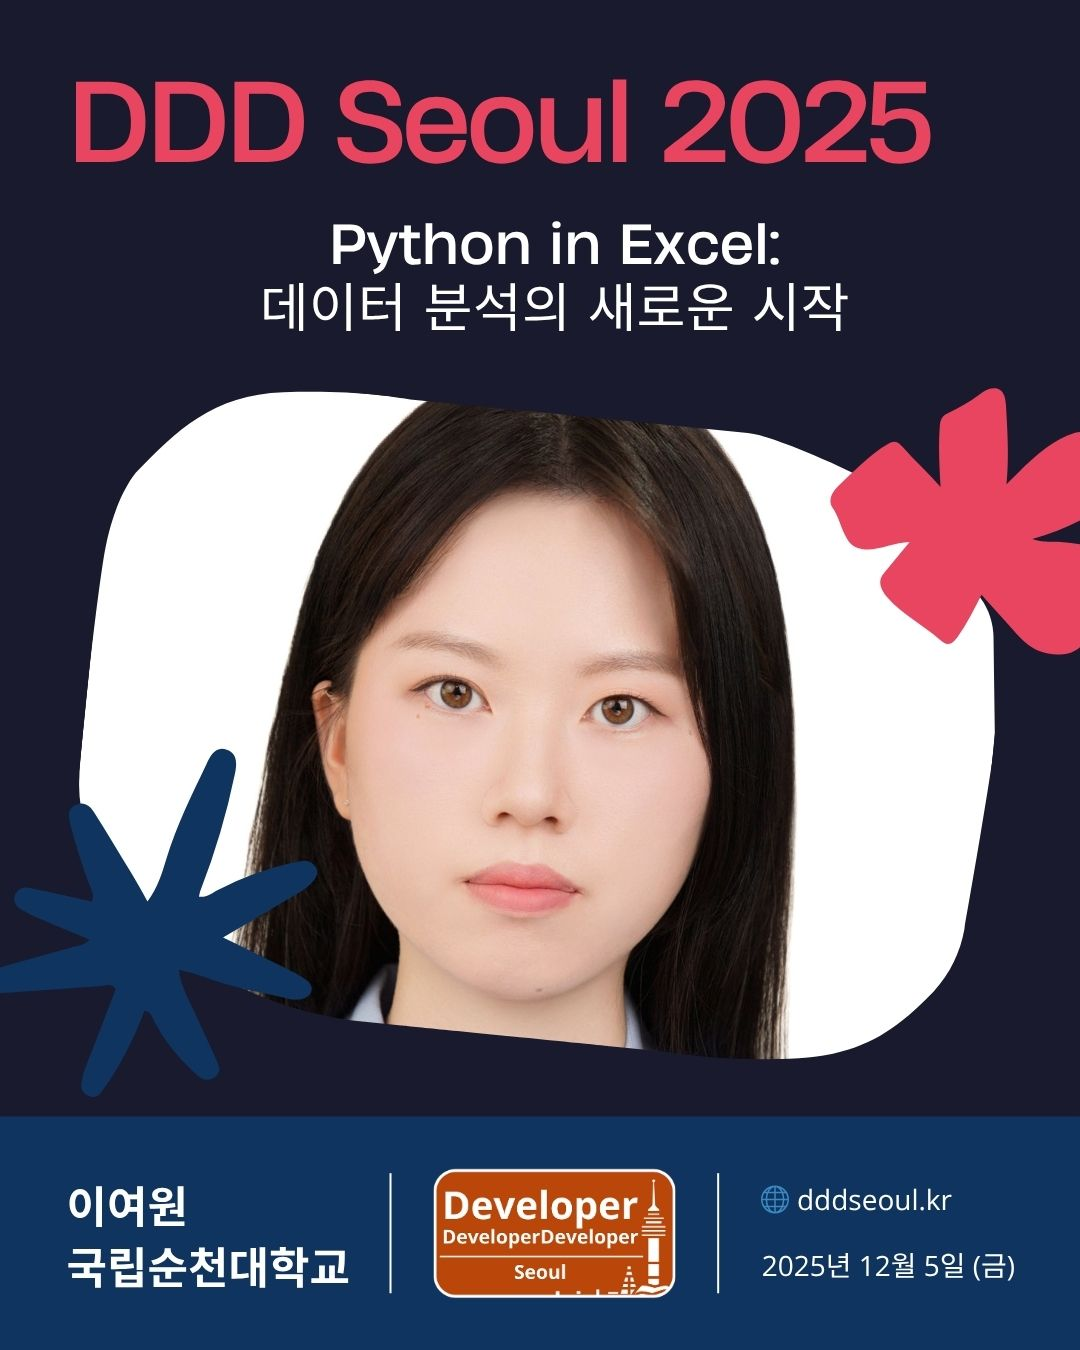
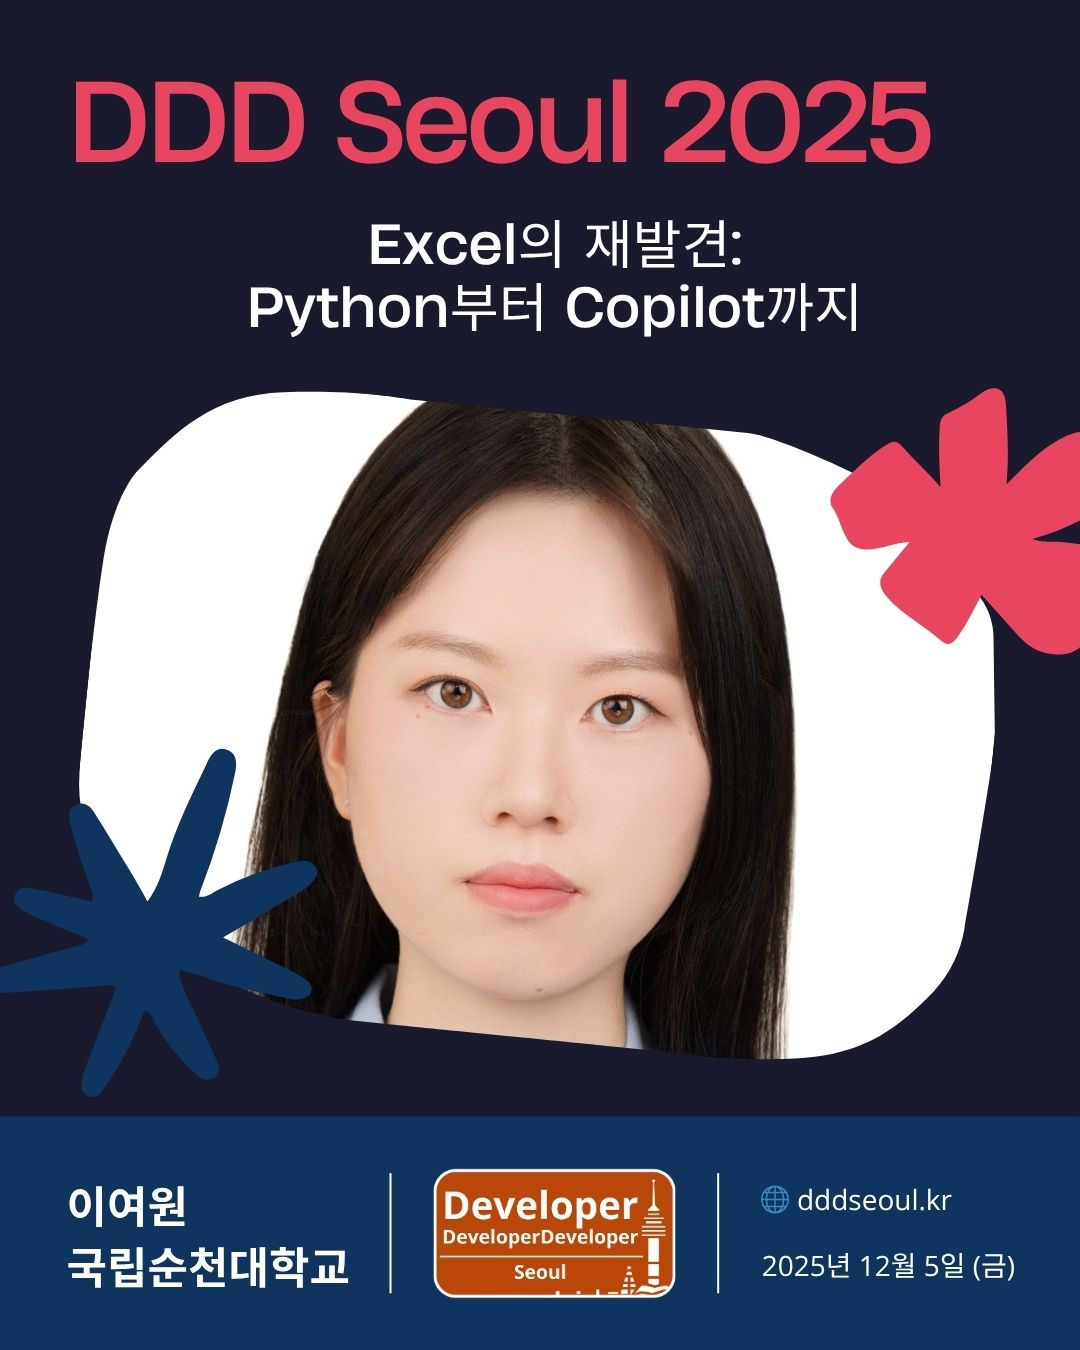
발표자 이여원 업데이트

Changed region(s): [[0.2139, 0.1556, 0.7944, 0.2489]]

diff --git a/src/DDDSeoul/input/speakers/yeowonlee.md b/src/DDDSeoul/input/speakers/yeowonlee.md
@@ -10,15 +10,15 @@
 
 ## 🔎 세션 정보
 
-- **세션명**: Python in Excel: 데이터 분석의 새로운 시작
+- **세션명**: Excel의 재발견: Python부터 Copilot까지 한 번에 보기
 - **세션종류**: 브레이크아웃 세션
 - **세션설명**:
 
-  Python in Excel 기능을 활용하여 데이터 분석과 자동화를 보다 효율적으로 수행하는 방법을 소개합니다.
+  Excel은 최근 기능 업데이트를 통해 기존 활용 방식을 넘어서는 새로운 흐름을 보여주고 있습니다. 이번 세션은 Python in Excel과 Copilot 함수라는 두 가지 축을 중심으로, 최근 Excel이 어떤 방향으로 진화하고 있는지를 흐름 위주로 살펴보는 시간입니다.
 
-  전통적으로 Excel은 접근성이 뛰어나지만 복잡한 데이터 처리에는 한계가 있었습니다. 그러나 Python이 통합되면서 Excel 내에서 직접 데이터 분석, 시각화, 머신러닝 등의 작업을 수행할 수 있게 되었습니다.
+  이번 업데이트들은 단순한 기능 추가라기보다, Excel이 앞으로 어떤 역할을 해나갈지에 대한 방향 전환에 가깝습니다. 
 
-  본 세션에서는 Python in Excel의 기본 개념과 주요 기능을 살펴보고 실제 예시를 통해 엑셀과 파이썬의 시너지가 만들어내는 새로운 데이터 분석 환경을 이해하는 시간을 가집니다!
+  익숙하지만 새로워진 Excel의 변화들을 함께 짚어보며 앞으로의 사용 방식에 대한 작은 힌트도 얻어보는 시간이 되었으면 합니다. 새로운 Excel의 얼굴을 함께 살펴봅시다!
 
 - **세션일정**: 12월 5일(금), 13:30 - 14:10
 - **세션장소**: ROOM 1 (제주)
